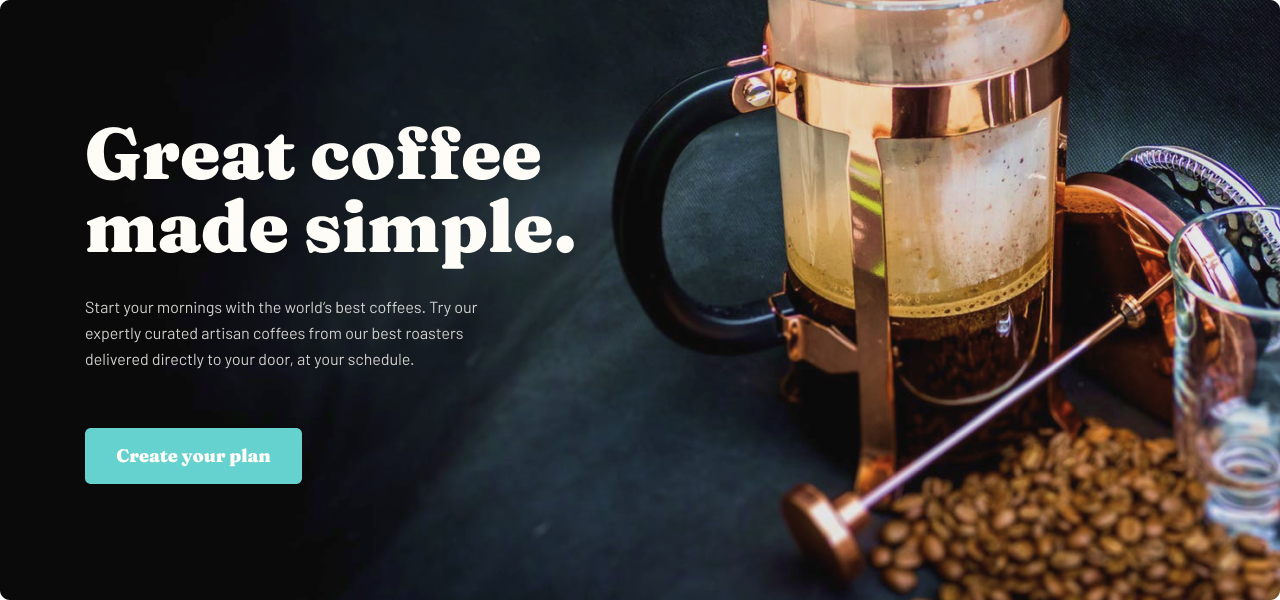
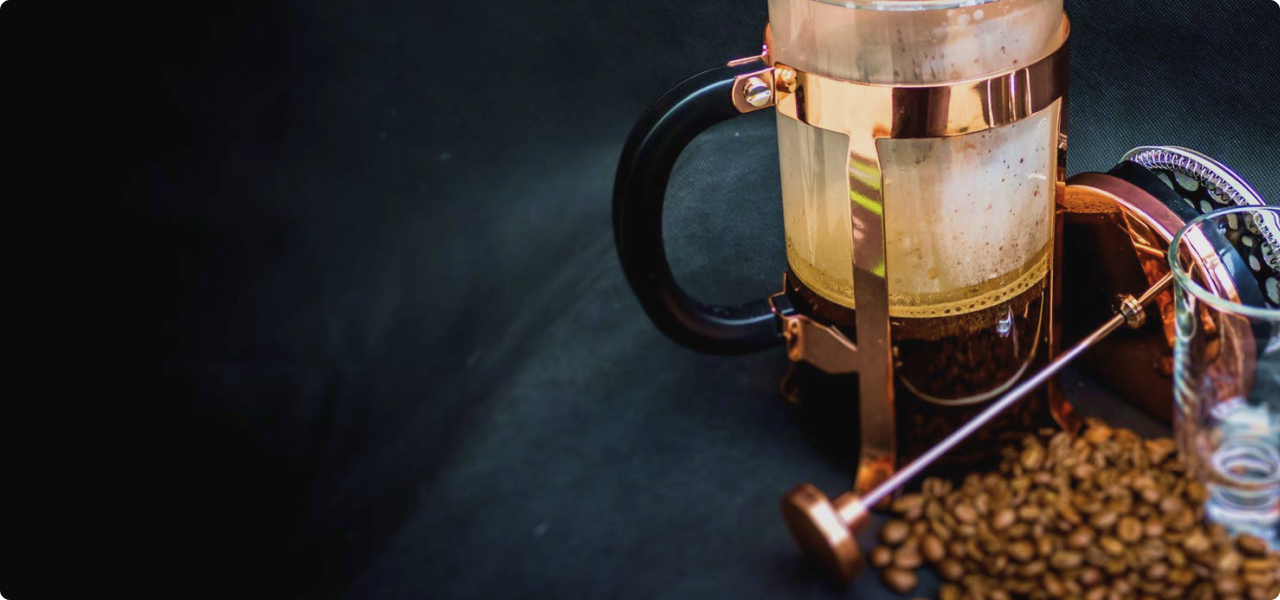
cssda yana uzgarish

diff --git a/css/main.css b/css/main.css
@@ -12,11 +12,12 @@ a {
 }
 
 .container {
-  width: 1300px;
-  padding: 0 20px;
+  width: 1440px;
+  padding: 0; 
   margin-left: auto;
   margin-right: auto;
   background-color: #ffffff;
+  padding: 0 80px
 }
 
 ul,
@@ -28,9 +29,8 @@ li {
   display: flex;
   align-items: center;
   justify-content: space-between;
-  margin-top: 40px;
-}
-.navbar{
+  padding-top: 40px;
+  padding-bottom: 48px;
 }
 
 .nav-list {
@@ -39,7 +39,7 @@ li {
 }
 
 .nav-item {
-  margin: 0 32px;
+  margin-left: 32px;
 }
 
 .nav-link {
@@ -53,6 +53,26 @@ li {
 .box{
 }
 .box-site{ 
-  background-image: url(../img/coffee.png);
   background-repeat: no-repeat;
+  background-image: url(../img/coffee.png);
+}
+.box-title{
+  font-weight: 900;
+  font-size: 72px;
+  line-height: 72px; 
+  color: #FEFCF7;
+  width: 493px;
+  padding: 117px 0px 32px 85px;
+}
+.box-text{
+  font-family: 'Barlow';
+font-style: normal;
+font-weight: 400;
+font-size: 16px;
+line-height: 26px;
+color: #FEFCF7;
+mix-blend-mode: normal;
+opacity: 0.8;
+width: 445px;
+padding: 0 0 56px 85px;
 }

diff --git a/index.html b/index.html
@@ -29,7 +29,7 @@
     </nav>
   </header>
   <main>
-    <div class="container box">
+    <div class="container">
       <section class="box-site">
         <h1 class="box-title">
           Great coffee
